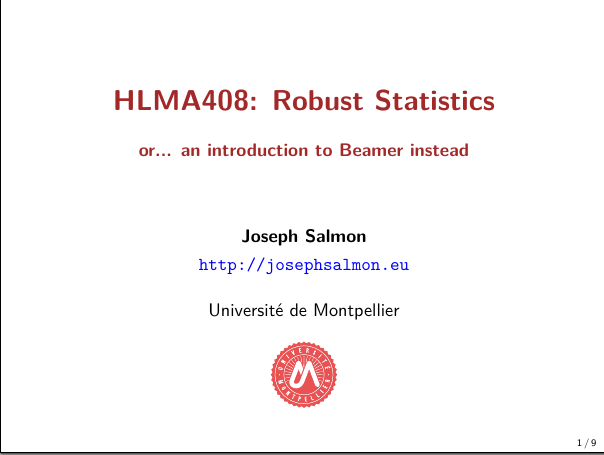
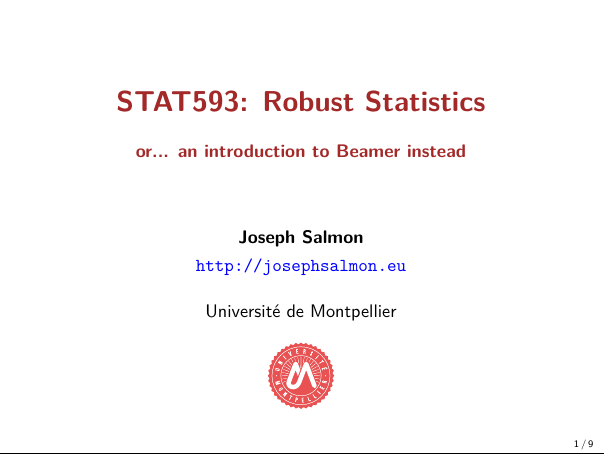
UW update ;)

diff --git a/tex/draft-beamer/beamer.tex b/tex/draft-beamer/beamer.tex
@@ -20,7 +20,7 @@
 \bigskip
 \begin{center}{
 \LARGE\color{marron}
-\textbf{HLMA408: Robust Statistics}
+\textbf{STAT593: Robust Statistics}
 \textbf{ }\\
 \vspace{0.5cm}
 }
